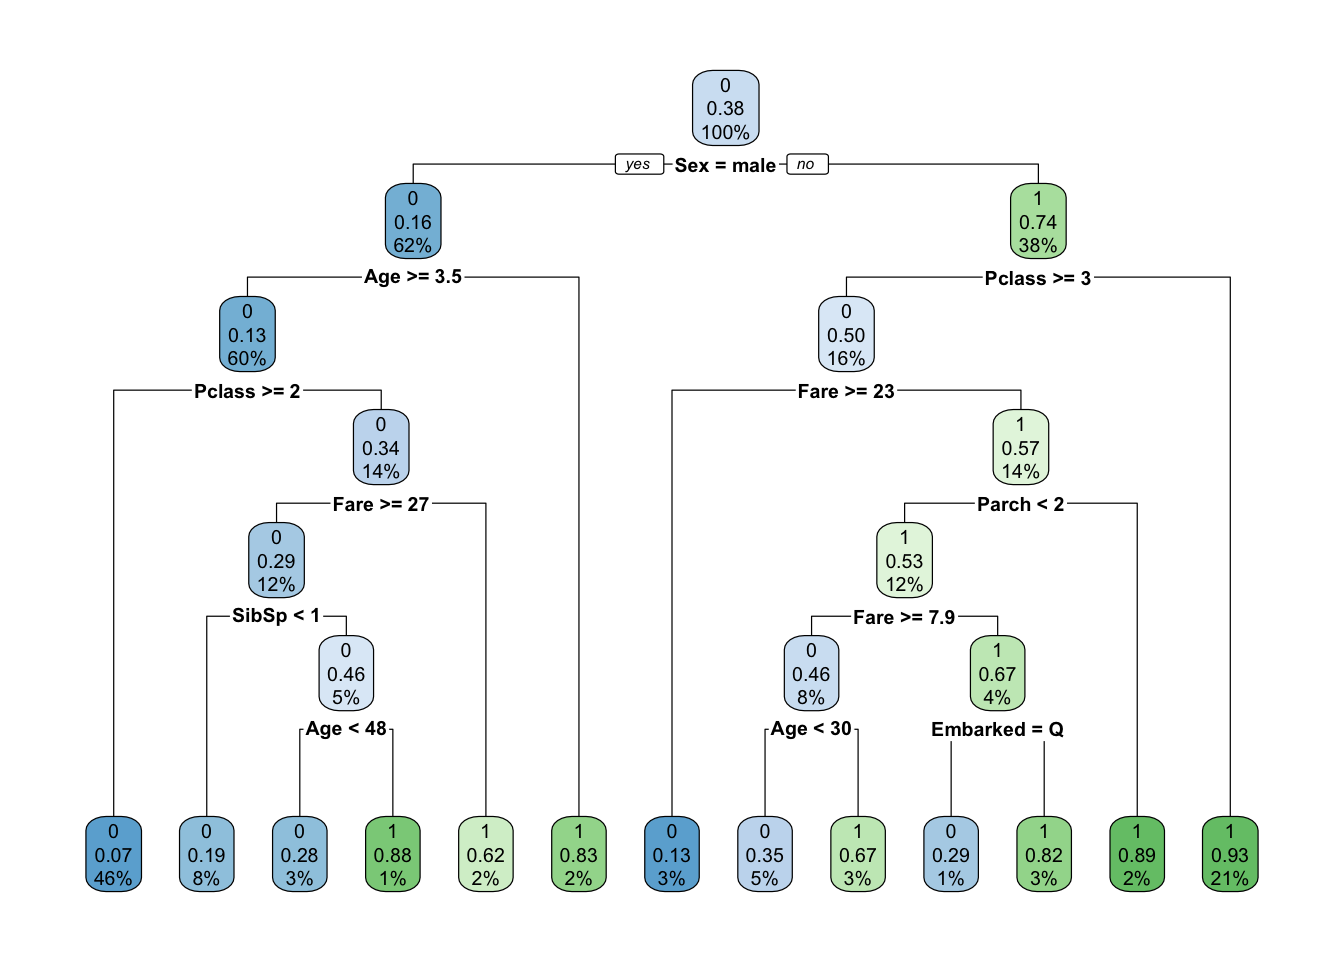
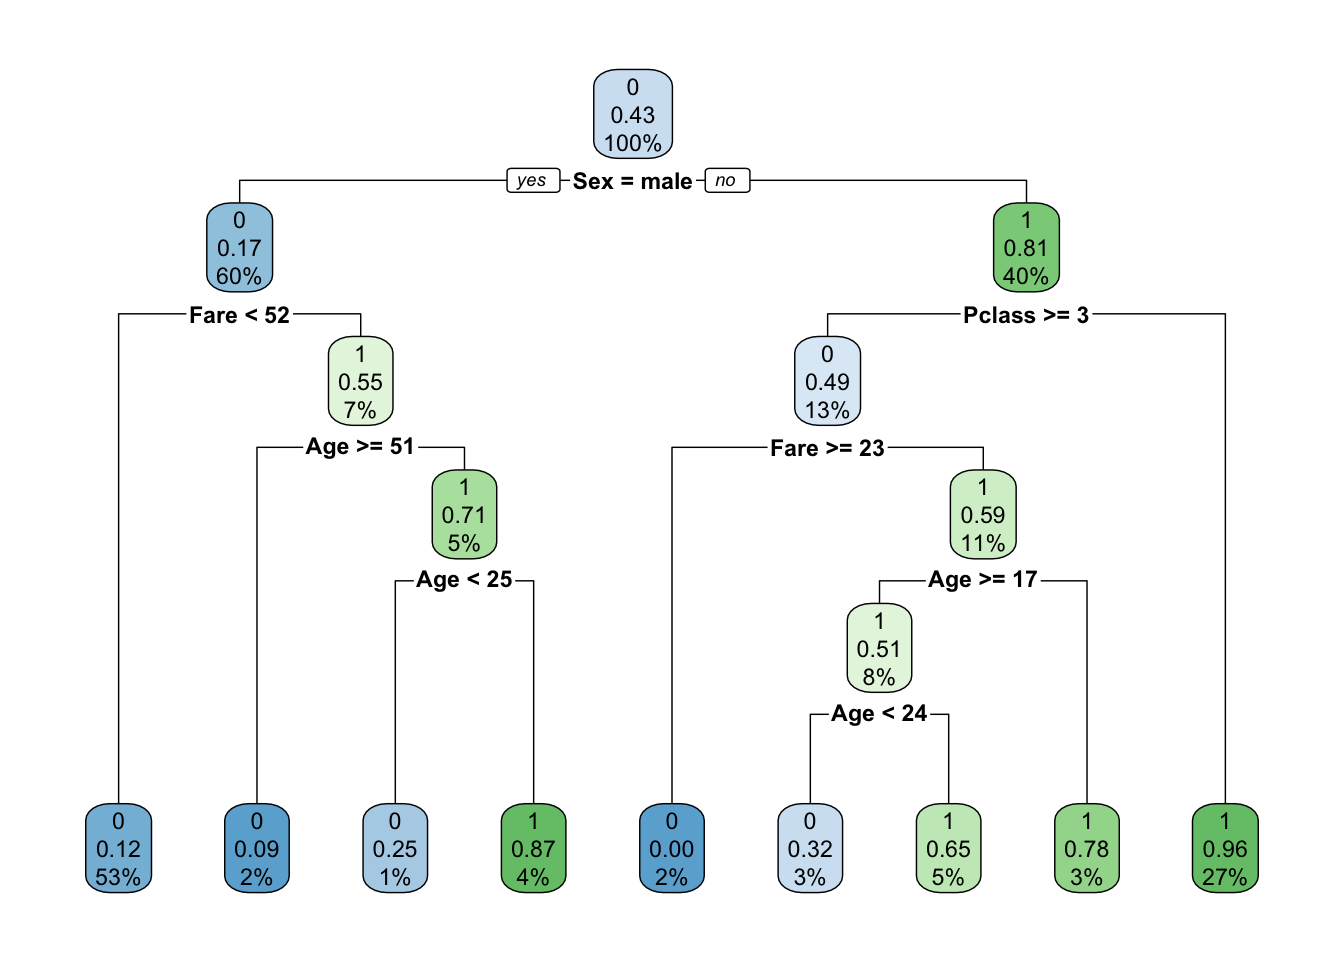
updated link

diff --git a/index.html b/index.html
@@ -243,17 +243,17 @@ predictionResults &lt;- data.frame(Survived = prediction)
 head(predictionResults)</code></pre>
 <pre><code>##    Survived
 ## 1         0
-## 7         0
-## 11        0
-## 14        0
-## 17        1
+## 2         1
+## 8         0
+## 9         1
+## 11        1
 ## 22        0</code></pre>
 <pre class="r"><code># claculate misclassification rate
 wrongPredictions = sum(prediction != testingset$Survived) 
 sizeOfTestSet = dim(testingset)[1]
 misclassification = wrongPredictions / sizeOfTestSet
 print(paste(&quot;Missclassification Rate: &quot;, round(misclassification*100,2), &quot;%&quot;))</code></pre>
-<pre><code>## [1] &quot;Missclassification Rate:  22.29 %&quot;</code></pre>
+<pre><code>## [1] &quot;Missclassification Rate:  24.33 %&quot;</code></pre>
 <p>Our decision tree indicates that females with Pclass &lt; 3 (so PClass 1 and 2) had the highest rate of survival (23%) for the training/testing dataset used. This rate will slightly vary evrytime a new training/testing set is used.</p>
 <p>We can conclude that women and children were prioritized in the evacuation as they had significantly higher survival rates according to our data. More expensive PClasses were also prioritized (PClass 1 and 2) as females who were in lower PClasses had a higher chance of survival according to our decision tree.</p>
 <pre class="r"><code>library(&quot;ggplot2&quot;)
